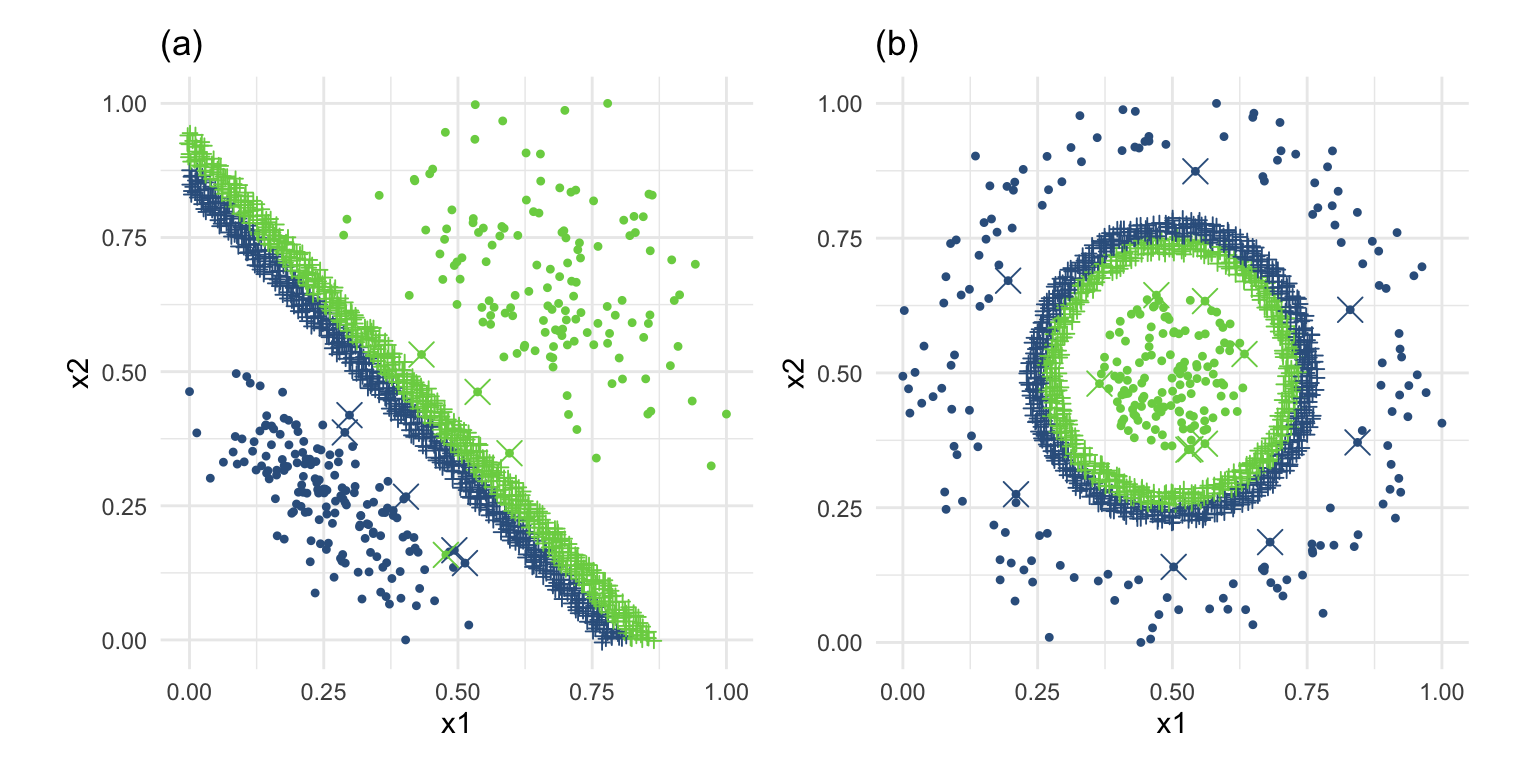
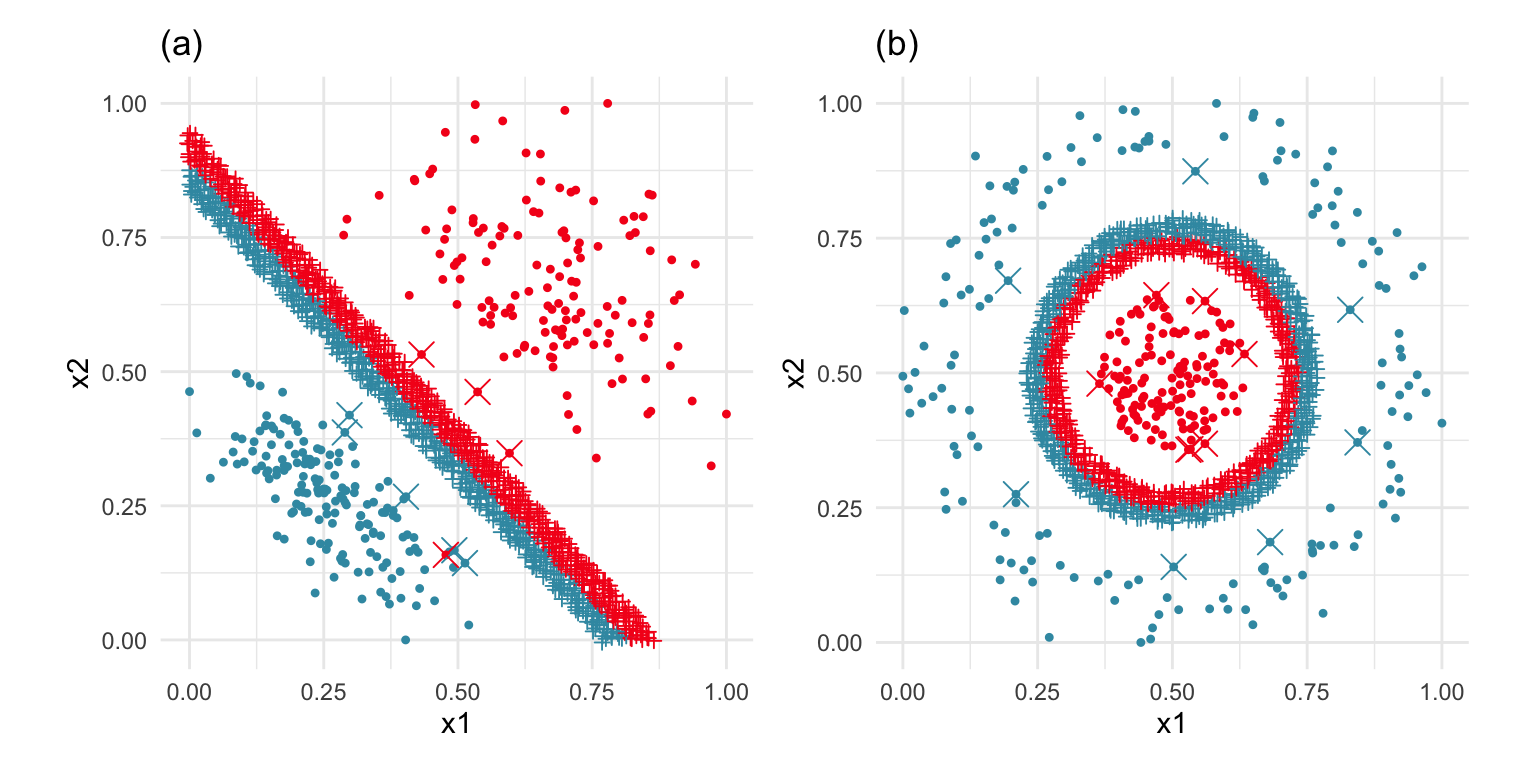
svm tidied

diff --git a/docs/svm.html b/docs/svm.html
@@ -410,46 +410,47 @@ div.csl-indent {
 <div class="cell">
 <div class="sourceCode cell-code" id="cb2"><pre class="sourceCode r code-with-copy"><code class="sourceCode r"><span id="cb2-1"><a href="#cb2-1" aria-hidden="true" tabindex="-1"></a><span class="fu">library</span>(classifly)</span>
 <span id="cb2-2"><a href="#cb2-2" aria-hidden="true" tabindex="-1"></a><span class="fu">library</span>(e1071)</span>
-<span id="cb2-3"><a href="#cb2-3" aria-hidden="true" tabindex="-1"></a>df1_svm <span class="ot">&lt;-</span> <span class="fu">svm</span>(cl<span class="sc">~</span>., <span class="at">data=</span>df1, </span>
-<span id="cb2-4"><a href="#cb2-4" aria-hidden="true" tabindex="-1"></a>                     <span class="at">probability=</span><span class="cn">TRUE</span>, </span>
-<span id="cb2-5"><a href="#cb2-5" aria-hidden="true" tabindex="-1"></a>                     <span class="at">kernel=</span><span class="st">"linear"</span>)</span>
-<span id="cb2-6"><a href="#cb2-6" aria-hidden="true" tabindex="-1"></a><span class="co">#df1_svm &lt;- ksvm(cl~., data=df1, </span></span>
-<span id="cb2-7"><a href="#cb2-7" aria-hidden="true" tabindex="-1"></a><span class="co">#                     probability=TRUE,</span></span>
-<span id="cb2-8"><a href="#cb2-8" aria-hidden="true" tabindex="-1"></a><span class="co">#                     kernel="vanilladot")</span></span>
-<span id="cb2-9"><a href="#cb2-9" aria-hidden="true" tabindex="-1"></a>df1_svm_e <span class="ot">&lt;-</span> <span class="fu">explore</span>(df1_svm, df1)</span>
-<span id="cb2-10"><a href="#cb2-10" aria-hidden="true" tabindex="-1"></a></span>
-<span id="cb2-11"><a href="#cb2-11" aria-hidden="true" tabindex="-1"></a>s1 <span class="ot">&lt;-</span> <span class="fu">ggplot</span>() <span class="sc">+</span> </span>
-<span id="cb2-12"><a href="#cb2-12" aria-hidden="true" tabindex="-1"></a>  <span class="fu">geom_point</span>(<span class="at">data=</span>df1, <span class="fu">aes</span>(<span class="at">x=</span>x1, <span class="at">y=</span>x2, <span class="at">colour=</span>cl),</span>
-<span id="cb2-13"><a href="#cb2-13" aria-hidden="true" tabindex="-1"></a>             <span class="at">shape=</span><span class="dv">20</span>) <span class="sc">+</span></span>
-<span id="cb2-14"><a href="#cb2-14" aria-hidden="true" tabindex="-1"></a>  <span class="fu">scale_colour_viridis_d</span>(<span class="st">""</span>, <span class="at">begin=</span><span class="fl">0.3</span>, <span class="at">end=</span><span class="fl">0.8</span>) <span class="sc">+</span></span>
-<span id="cb2-15"><a href="#cb2-15" aria-hidden="true" tabindex="-1"></a>  <span class="fu">geom_point</span>(<span class="at">data=</span>df1_svm_e[(<span class="sc">!</span>df1_svm_e<span class="sc">$</span>.BOUNDARY)<span class="sc">&amp;</span>(df1_svm_e<span class="sc">$</span>.TYPE<span class="sc">==</span><span class="st">"simulated"</span>),], </span>
-<span id="cb2-16"><a href="#cb2-16" aria-hidden="true" tabindex="-1"></a>             <span class="fu">aes</span>(<span class="at">x=</span>x1, <span class="at">y=</span>x2, <span class="at">colour=</span>cl), <span class="at">shape=</span><span class="dv">3</span>) <span class="sc">+</span></span>
-<span id="cb2-17"><a href="#cb2-17" aria-hidden="true" tabindex="-1"></a>  <span class="fu">geom_point</span>(<span class="at">data=</span>df1[df1_svm<span class="sc">$</span>index,], </span>
-<span id="cb2-18"><a href="#cb2-18" aria-hidden="true" tabindex="-1"></a>             <span class="fu">aes</span>(<span class="at">x=</span>x1, <span class="at">y=</span>x2, <span class="at">colour=</span>cl), </span>
-<span id="cb2-19"><a href="#cb2-19" aria-hidden="true" tabindex="-1"></a>             <span class="at">shape=</span><span class="dv">4</span>, <span class="at">size=</span><span class="dv">4</span>) <span class="sc">+</span></span>
-<span id="cb2-20"><a href="#cb2-20" aria-hidden="true" tabindex="-1"></a>  <span class="fu">theme_minimal</span>() <span class="sc">+</span></span>
-<span id="cb2-21"><a href="#cb2-21" aria-hidden="true" tabindex="-1"></a>  <span class="fu">theme</span>(<span class="at">aspect.ratio=</span><span class="dv">1</span>, <span class="at">legend.position =</span> <span class="st">"none"</span>) <span class="sc">+</span></span>
-<span id="cb2-22"><a href="#cb2-22" aria-hidden="true" tabindex="-1"></a>  <span class="fu">ggtitle</span>(<span class="st">"(a)"</span>)</span>
-<span id="cb2-23"><a href="#cb2-23" aria-hidden="true" tabindex="-1"></a></span>
-<span id="cb2-24"><a href="#cb2-24" aria-hidden="true" tabindex="-1"></a>df2_svm <span class="ot">&lt;-</span> <span class="fu">svm</span>(cl<span class="sc">~</span>., <span class="at">data=</span>df2,  </span>
-<span id="cb2-25"><a href="#cb2-25" aria-hidden="true" tabindex="-1"></a>                     <span class="at">probability=</span><span class="cn">TRUE</span>, </span>
-<span id="cb2-26"><a href="#cb2-26" aria-hidden="true" tabindex="-1"></a>                     <span class="at">kernel=</span><span class="st">"radial"</span>)</span>
-<span id="cb2-27"><a href="#cb2-27" aria-hidden="true" tabindex="-1"></a>df2_svm_e <span class="ot">&lt;-</span> <span class="fu">explore</span>(df2_svm, df2)</span>
-<span id="cb2-28"><a href="#cb2-28" aria-hidden="true" tabindex="-1"></a>s2 <span class="ot">&lt;-</span> <span class="fu">ggplot</span>() <span class="sc">+</span> </span>
-<span id="cb2-29"><a href="#cb2-29" aria-hidden="true" tabindex="-1"></a>  <span class="fu">geom_point</span>(<span class="at">data=</span>df2, <span class="fu">aes</span>(<span class="at">x=</span>x1, <span class="at">y=</span>x2, <span class="at">colour=</span>cl), <span class="at">shape=</span><span class="dv">20</span>) <span class="sc">+</span></span>
-<span id="cb2-30"><a href="#cb2-30" aria-hidden="true" tabindex="-1"></a>  <span class="fu">scale_colour_viridis_d</span>(<span class="st">""</span>, <span class="at">begin=</span><span class="fl">0.3</span>, <span class="at">end=</span><span class="fl">0.8</span>) <span class="sc">+</span></span>
-<span id="cb2-31"><a href="#cb2-31" aria-hidden="true" tabindex="-1"></a>  <span class="fu">geom_point</span>(<span class="at">data=</span>df2_svm_e[(<span class="sc">!</span>df2_svm_e<span class="sc">$</span>.BOUNDARY)<span class="sc">&amp;</span>(df2_svm_e<span class="sc">$</span>.TYPE<span class="sc">==</span><span class="st">"simulated"</span>),], </span>
-<span id="cb2-32"><a href="#cb2-32" aria-hidden="true" tabindex="-1"></a>             <span class="fu">aes</span>(<span class="at">x=</span>x1, <span class="at">y=</span>x2, <span class="at">colour=</span>cl), </span>
-<span id="cb2-33"><a href="#cb2-33" aria-hidden="true" tabindex="-1"></a>             <span class="at">shape=</span><span class="dv">3</span>) <span class="sc">+</span></span>
-<span id="cb2-34"><a href="#cb2-34" aria-hidden="true" tabindex="-1"></a>  <span class="fu">geom_point</span>(<span class="at">data=</span>df2[df2_svm<span class="sc">$</span>index,], </span>
-<span id="cb2-35"><a href="#cb2-35" aria-hidden="true" tabindex="-1"></a>             <span class="fu">aes</span>(<span class="at">x=</span>x1, <span class="at">y=</span>x2, <span class="at">colour=</span>cl), </span>
-<span id="cb2-36"><a href="#cb2-36" aria-hidden="true" tabindex="-1"></a>             <span class="at">shape=</span><span class="dv">4</span>, <span class="at">size=</span><span class="dv">4</span>) <span class="sc">+</span></span>
-<span id="cb2-37"><a href="#cb2-37" aria-hidden="true" tabindex="-1"></a>  <span class="fu">theme_minimal</span>() <span class="sc">+</span></span>
-<span id="cb2-38"><a href="#cb2-38" aria-hidden="true" tabindex="-1"></a>  <span class="fu">theme</span>(<span class="at">aspect.ratio=</span><span class="dv">1</span>, <span class="at">legend.position =</span> <span class="st">"none"</span>) <span class="sc">+</span></span>
-<span id="cb2-39"><a href="#cb2-39" aria-hidden="true" tabindex="-1"></a>  <span class="fu">ggtitle</span>(<span class="st">"(b)"</span>)</span>
-<span id="cb2-40"><a href="#cb2-40" aria-hidden="true" tabindex="-1"></a></span>
-<span id="cb2-41"><a href="#cb2-41" aria-hidden="true" tabindex="-1"></a><span class="fu">library</span>(patchwork)</span>
-<span id="cb2-42"><a href="#cb2-42" aria-hidden="true" tabindex="-1"></a>s1<span class="sc">+</span>s2</span></code><button title="Copy to Clipboard" class="code-copy-button"><i class="bi"></i></button></pre></div>
+<span id="cb2-3"><a href="#cb2-3" aria-hidden="true" tabindex="-1"></a><span class="fu">library</span>(colorspace)</span>
+<span id="cb2-4"><a href="#cb2-4" aria-hidden="true" tabindex="-1"></a>df1_svm <span class="ot">&lt;-</span> <span class="fu">svm</span>(cl<span class="sc">~</span>., <span class="at">data=</span>df1, </span>
+<span id="cb2-5"><a href="#cb2-5" aria-hidden="true" tabindex="-1"></a>                     <span class="at">probability=</span><span class="cn">TRUE</span>, </span>
+<span id="cb2-6"><a href="#cb2-6" aria-hidden="true" tabindex="-1"></a>                     <span class="at">kernel=</span><span class="st">"linear"</span>)</span>
+<span id="cb2-7"><a href="#cb2-7" aria-hidden="true" tabindex="-1"></a><span class="co">#df1_svm &lt;- ksvm(cl~., data=df1, </span></span>
+<span id="cb2-8"><a href="#cb2-8" aria-hidden="true" tabindex="-1"></a><span class="co">#                     probability=TRUE,</span></span>
+<span id="cb2-9"><a href="#cb2-9" aria-hidden="true" tabindex="-1"></a><span class="co">#                     kernel="vanilladot")</span></span>
+<span id="cb2-10"><a href="#cb2-10" aria-hidden="true" tabindex="-1"></a>df1_svm_e <span class="ot">&lt;-</span> <span class="fu">explore</span>(df1_svm, df1)</span>
+<span id="cb2-11"><a href="#cb2-11" aria-hidden="true" tabindex="-1"></a></span>
+<span id="cb2-12"><a href="#cb2-12" aria-hidden="true" tabindex="-1"></a>s1 <span class="ot">&lt;-</span> <span class="fu">ggplot</span>() <span class="sc">+</span> </span>
+<span id="cb2-13"><a href="#cb2-13" aria-hidden="true" tabindex="-1"></a>  <span class="fu">geom_point</span>(<span class="at">data=</span>df1, <span class="fu">aes</span>(<span class="at">x=</span>x1, <span class="at">y=</span>x2, <span class="at">colour=</span>cl),</span>
+<span id="cb2-14"><a href="#cb2-14" aria-hidden="true" tabindex="-1"></a>             <span class="at">shape=</span><span class="dv">20</span>) <span class="sc">+</span></span>
+<span id="cb2-15"><a href="#cb2-15" aria-hidden="true" tabindex="-1"></a>  <span class="fu">scale_colour_discrete_divergingx</span>(<span class="at">palette=</span><span class="st">"Zissou 1"</span>) <span class="sc">+</span></span>
+<span id="cb2-16"><a href="#cb2-16" aria-hidden="true" tabindex="-1"></a>  <span class="fu">geom_point</span>(<span class="at">data=</span>df1_svm_e[(<span class="sc">!</span>df1_svm_e<span class="sc">$</span>.BOUNDARY)<span class="sc">&amp;</span>(df1_svm_e<span class="sc">$</span>.TYPE<span class="sc">==</span><span class="st">"simulated"</span>),], </span>
+<span id="cb2-17"><a href="#cb2-17" aria-hidden="true" tabindex="-1"></a>             <span class="fu">aes</span>(<span class="at">x=</span>x1, <span class="at">y=</span>x2, <span class="at">colour=</span>cl), <span class="at">shape=</span><span class="dv">3</span>) <span class="sc">+</span></span>
+<span id="cb2-18"><a href="#cb2-18" aria-hidden="true" tabindex="-1"></a>  <span class="fu">geom_point</span>(<span class="at">data=</span>df1[df1_svm<span class="sc">$</span>index,], </span>
+<span id="cb2-19"><a href="#cb2-19" aria-hidden="true" tabindex="-1"></a>             <span class="fu">aes</span>(<span class="at">x=</span>x1, <span class="at">y=</span>x2, <span class="at">colour=</span>cl), </span>
+<span id="cb2-20"><a href="#cb2-20" aria-hidden="true" tabindex="-1"></a>             <span class="at">shape=</span><span class="dv">4</span>, <span class="at">size=</span><span class="dv">4</span>) <span class="sc">+</span></span>
+<span id="cb2-21"><a href="#cb2-21" aria-hidden="true" tabindex="-1"></a>  <span class="fu">theme_minimal</span>() <span class="sc">+</span></span>
+<span id="cb2-22"><a href="#cb2-22" aria-hidden="true" tabindex="-1"></a>  <span class="fu">theme</span>(<span class="at">aspect.ratio=</span><span class="dv">1</span>, <span class="at">legend.position =</span> <span class="st">"none"</span>) <span class="sc">+</span></span>
+<span id="cb2-23"><a href="#cb2-23" aria-hidden="true" tabindex="-1"></a>  <span class="fu">ggtitle</span>(<span class="st">"(a)"</span>)</span>
+<span id="cb2-24"><a href="#cb2-24" aria-hidden="true" tabindex="-1"></a></span>
+<span id="cb2-25"><a href="#cb2-25" aria-hidden="true" tabindex="-1"></a>df2_svm <span class="ot">&lt;-</span> <span class="fu">svm</span>(cl<span class="sc">~</span>., <span class="at">data=</span>df2,  </span>
+<span id="cb2-26"><a href="#cb2-26" aria-hidden="true" tabindex="-1"></a>                     <span class="at">probability=</span><span class="cn">TRUE</span>, </span>
+<span id="cb2-27"><a href="#cb2-27" aria-hidden="true" tabindex="-1"></a>                     <span class="at">kernel=</span><span class="st">"radial"</span>)</span>
+<span id="cb2-28"><a href="#cb2-28" aria-hidden="true" tabindex="-1"></a>df2_svm_e <span class="ot">&lt;-</span> <span class="fu">explore</span>(df2_svm, df2)</span>
+<span id="cb2-29"><a href="#cb2-29" aria-hidden="true" tabindex="-1"></a>s2 <span class="ot">&lt;-</span> <span class="fu">ggplot</span>() <span class="sc">+</span> </span>
+<span id="cb2-30"><a href="#cb2-30" aria-hidden="true" tabindex="-1"></a>  <span class="fu">geom_point</span>(<span class="at">data=</span>df2, <span class="fu">aes</span>(<span class="at">x=</span>x1, <span class="at">y=</span>x2, <span class="at">colour=</span>cl), <span class="at">shape=</span><span class="dv">20</span>) <span class="sc">+</span></span>
+<span id="cb2-31"><a href="#cb2-31" aria-hidden="true" tabindex="-1"></a>  <span class="fu">scale_colour_discrete_divergingx</span>(<span class="at">palette=</span><span class="st">"Zissou 1"</span>) <span class="sc">+</span></span>
+<span id="cb2-32"><a href="#cb2-32" aria-hidden="true" tabindex="-1"></a>  <span class="fu">geom_point</span>(<span class="at">data=</span>df2_svm_e[(<span class="sc">!</span>df2_svm_e<span class="sc">$</span>.BOUNDARY)<span class="sc">&amp;</span>(df2_svm_e<span class="sc">$</span>.TYPE<span class="sc">==</span><span class="st">"simulated"</span>),], </span>
+<span id="cb2-33"><a href="#cb2-33" aria-hidden="true" tabindex="-1"></a>             <span class="fu">aes</span>(<span class="at">x=</span>x1, <span class="at">y=</span>x2, <span class="at">colour=</span>cl), </span>
+<span id="cb2-34"><a href="#cb2-34" aria-hidden="true" tabindex="-1"></a>             <span class="at">shape=</span><span class="dv">3</span>) <span class="sc">+</span></span>
+<span id="cb2-35"><a href="#cb2-35" aria-hidden="true" tabindex="-1"></a>  <span class="fu">geom_point</span>(<span class="at">data=</span>df2[df2_svm<span class="sc">$</span>index,], </span>
+<span id="cb2-36"><a href="#cb2-36" aria-hidden="true" tabindex="-1"></a>             <span class="fu">aes</span>(<span class="at">x=</span>x1, <span class="at">y=</span>x2, <span class="at">colour=</span>cl), </span>
+<span id="cb2-37"><a href="#cb2-37" aria-hidden="true" tabindex="-1"></a>             <span class="at">shape=</span><span class="dv">4</span>, <span class="at">size=</span><span class="dv">4</span>) <span class="sc">+</span></span>
+<span id="cb2-38"><a href="#cb2-38" aria-hidden="true" tabindex="-1"></a>  <span class="fu">theme_minimal</span>() <span class="sc">+</span></span>
+<span id="cb2-39"><a href="#cb2-39" aria-hidden="true" tabindex="-1"></a>  <span class="fu">theme</span>(<span class="at">aspect.ratio=</span><span class="dv">1</span>, <span class="at">legend.position =</span> <span class="st">"none"</span>) <span class="sc">+</span></span>
+<span id="cb2-40"><a href="#cb2-40" aria-hidden="true" tabindex="-1"></a>  <span class="fu">ggtitle</span>(<span class="st">"(b)"</span>)</span>
+<span id="cb2-41"><a href="#cb2-41" aria-hidden="true" tabindex="-1"></a></span>
+<span id="cb2-42"><a href="#cb2-42" aria-hidden="true" tabindex="-1"></a><span class="fu">library</span>(patchwork)</span>
+<span id="cb2-43"><a href="#cb2-43" aria-hidden="true" tabindex="-1"></a>s1<span class="sc">+</span>s2</span></code><button title="Copy to Clipboard" class="code-copy-button"><i class="bi"></i></button></pre></div>
 <div class="cell-output-display">
 <div id="fig-svm-toy" class="quarto-figure quarto-figure-center anchored">
 <figure class="figure">
@@ -565,24 +566,31 @@ ggplot() +
 <span id="cb4-8"><a href="#cb4-8" aria-hidden="true" tabindex="-1"></a><span class="co"># Only show the SVs with |coefs| &lt; 1</span></span>
 <span id="cb4-9"><a href="#cb4-9" aria-hidden="true" tabindex="-1"></a>c_pch <span class="ot">&lt;-</span> <span class="fu">rep</span>(<span class="dv">20</span>, <span class="fu">nrow</span>(chinstrap))</span>
 <span id="cb4-10"><a href="#cb4-10" aria-hidden="true" tabindex="-1"></a>c_pch[chinstrap_svm<span class="sc">$</span>index[<span class="fu">abs</span>(chinstrap_svm<span class="sc">$</span>coefs)<span class="sc">&lt;</span><span class="dv">1</span>]] <span class="ot">&lt;-</span> <span class="dv">4</span></span>
-<span id="cb4-11"><a href="#cb4-11" aria-hidden="true" tabindex="-1"></a><span class="fu">animate_xy</span>(chinstrap[,<span class="dv">1</span><span class="sc">:</span><span class="dv">4</span>], <span class="at">col=</span>chinstrap<span class="sc">$</span>sex, <span class="at">pch=</span>c_pch)</span>
-<span id="cb4-12"><a href="#cb4-12" aria-hidden="true" tabindex="-1"></a><span class="fu">render_gif</span>(chinstrap[,<span class="dv">1</span><span class="sc">:</span><span class="dv">4</span>],</span>
-<span id="cb4-13"><a href="#cb4-13" aria-hidden="true" tabindex="-1"></a>           <span class="fu">grand_tour</span>(),</span>
-<span id="cb4-14"><a href="#cb4-14" aria-hidden="true" tabindex="-1"></a>           <span class="fu">display_xy</span>(<span class="at">col=</span>chinstrap<span class="sc">$</span>sex, <span class="at">pch=</span>c_pch),</span>
-<span id="cb4-15"><a href="#cb4-15" aria-hidden="true" tabindex="-1"></a>           <span class="at">gif_file=</span><span class="st">"gifs/chinstrap_svs.gif"</span>,</span>
-<span id="cb4-16"><a href="#cb4-16" aria-hidden="true" tabindex="-1"></a>           <span class="at">frames=</span><span class="dv">500</span>)</span>
-<span id="cb4-17"><a href="#cb4-17" aria-hidden="true" tabindex="-1"></a></span>
-<span id="cb4-18"><a href="#cb4-18" aria-hidden="true" tabindex="-1"></a><span class="co"># Tour the separating hyper-plane also</span></span>
-<span id="cb4-19"><a href="#cb4-19" aria-hidden="true" tabindex="-1"></a>symbols <span class="ot">&lt;-</span> <span class="fu">c</span>(<span class="dv">3</span>, <span class="dv">20</span>)</span>
-<span id="cb4-20"><a href="#cb4-20" aria-hidden="true" tabindex="-1"></a>c_pch <span class="ot">&lt;-</span> symbols[<span class="fu">as.numeric</span>(chinstrap_svm_e<span class="sc">$</span>.TYPE[<span class="sc">!</span>chinstrap_svm_e<span class="sc">$</span>.BOUNDARY])]</span>
-<span id="cb4-21"><a href="#cb4-21" aria-hidden="true" tabindex="-1"></a><span class="fu">animate_xy</span>(chinstrap_svm_e[<span class="sc">!</span>chinstrap_svm_e<span class="sc">$</span>.BOUNDARY,<span class="dv">1</span><span class="sc">:</span><span class="dv">4</span>], </span>
-<span id="cb4-22"><a href="#cb4-22" aria-hidden="true" tabindex="-1"></a>           <span class="at">col=</span>chinstrap_svm_e<span class="sc">$</span>sex[<span class="sc">!</span>chinstrap_svm_e<span class="sc">$</span>.BOUNDARY],</span>
-<span id="cb4-23"><a href="#cb4-23" aria-hidden="true" tabindex="-1"></a>           <span class="at">pch=</span>c_pch)</span>
-<span id="cb4-24"><a href="#cb4-24" aria-hidden="true" tabindex="-1"></a><span class="fu">render_gif</span>(chinstrap_svm_e[<span class="sc">!</span>chinstrap_svm_e<span class="sc">$</span>.BOUNDARY,<span class="dv">1</span><span class="sc">:</span><span class="dv">4</span>],</span>
-<span id="cb4-25"><a href="#cb4-25" aria-hidden="true" tabindex="-1"></a>           <span class="fu">grand_tour</span>(),</span>
-<span id="cb4-26"><a href="#cb4-26" aria-hidden="true" tabindex="-1"></a>           <span class="fu">display_xy</span>(<span class="at">col=</span>chinstrap_svm_e<span class="sc">$</span>sex[<span class="sc">!</span>chinstrap_svm_e<span class="sc">$</span>.BOUNDARY], <span class="at">pch=</span>c_pch),</span>
-<span id="cb4-27"><a href="#cb4-27" aria-hidden="true" tabindex="-1"></a>           <span class="at">gif_file=</span><span class="st">"gifs/chinstrap_svm.gif"</span>,</span>
-<span id="cb4-28"><a href="#cb4-28" aria-hidden="true" tabindex="-1"></a>           <span class="at">frames=</span><span class="dv">500</span>)</span></code><button title="Copy to Clipboard" class="code-copy-button"><i class="bi"></i></button></pre></div>
+<span id="cb4-11"><a href="#cb4-11" aria-hidden="true" tabindex="-1"></a>c_cex <span class="ot">&lt;-</span> <span class="fu">rep</span>(<span class="dv">1</span>, <span class="fu">nrow</span>(chinstrap))</span>
+<span id="cb4-12"><a href="#cb4-12" aria-hidden="true" tabindex="-1"></a>c_cex[chinstrap_svm<span class="sc">$</span>index[<span class="fu">abs</span>(chinstrap_svm<span class="sc">$</span>coefs)<span class="sc">&lt;</span><span class="dv">1</span>]] <span class="ot">&lt;-</span> <span class="dv">2</span></span>
+<span id="cb4-13"><a href="#cb4-13" aria-hidden="true" tabindex="-1"></a><span class="fu">animate_xy</span>(chinstrap[,<span class="dv">1</span><span class="sc">:</span><span class="dv">4</span>], <span class="at">col=</span>chinstrap<span class="sc">$</span>sex, </span>
+<span id="cb4-14"><a href="#cb4-14" aria-hidden="true" tabindex="-1"></a>           <span class="at">pch=</span>c_pch, <span class="at">cex=</span>c_cex)</span>
+<span id="cb4-15"><a href="#cb4-15" aria-hidden="true" tabindex="-1"></a><span class="fu">render_gif</span>(chinstrap[,<span class="dv">1</span><span class="sc">:</span><span class="dv">4</span>],</span>
+<span id="cb4-16"><a href="#cb4-16" aria-hidden="true" tabindex="-1"></a>           <span class="fu">grand_tour</span>(),</span>
+<span id="cb4-17"><a href="#cb4-17" aria-hidden="true" tabindex="-1"></a>           <span class="fu">display_xy</span>(<span class="at">col=</span>chinstrap<span class="sc">$</span>sex, <span class="at">pch=</span>c_pch, <span class="at">cex=</span>c_cex),</span>
+<span id="cb4-18"><a href="#cb4-18" aria-hidden="true" tabindex="-1"></a>           <span class="at">gif_file=</span><span class="st">"gifs/chinstrap_svs.gif"</span>,</span>
+<span id="cb4-19"><a href="#cb4-19" aria-hidden="true" tabindex="-1"></a>           <span class="at">width=</span><span class="dv">400</span>,</span>
+<span id="cb4-20"><a href="#cb4-20" aria-hidden="true" tabindex="-1"></a>           <span class="at">height=</span><span class="dv">400</span>,</span>
+<span id="cb4-21"><a href="#cb4-21" aria-hidden="true" tabindex="-1"></a>           <span class="at">frames=</span><span class="dv">500</span>)</span>
+<span id="cb4-22"><a href="#cb4-22" aria-hidden="true" tabindex="-1"></a></span>
+<span id="cb4-23"><a href="#cb4-23" aria-hidden="true" tabindex="-1"></a><span class="co"># Tour the separating hyper-plane also</span></span>
+<span id="cb4-24"><a href="#cb4-24" aria-hidden="true" tabindex="-1"></a>symbols <span class="ot">&lt;-</span> <span class="fu">c</span>(<span class="dv">3</span>, <span class="dv">20</span>)</span>
+<span id="cb4-25"><a href="#cb4-25" aria-hidden="true" tabindex="-1"></a>c_pch <span class="ot">&lt;-</span> symbols[<span class="fu">as.numeric</span>(chinstrap_svm_e<span class="sc">$</span>.TYPE[<span class="sc">!</span>chinstrap_svm_e<span class="sc">$</span>.BOUNDARY])]</span>
+<span id="cb4-26"><a href="#cb4-26" aria-hidden="true" tabindex="-1"></a><span class="fu">animate_xy</span>(chinstrap_svm_e[<span class="sc">!</span>chinstrap_svm_e<span class="sc">$</span>.BOUNDARY,<span class="dv">1</span><span class="sc">:</span><span class="dv">4</span>], </span>
+<span id="cb4-27"><a href="#cb4-27" aria-hidden="true" tabindex="-1"></a>           <span class="at">col=</span>chinstrap_svm_e<span class="sc">$</span>sex[<span class="sc">!</span>chinstrap_svm_e<span class="sc">$</span>.BOUNDARY],</span>
+<span id="cb4-28"><a href="#cb4-28" aria-hidden="true" tabindex="-1"></a>           <span class="at">pch=</span>c_pch)</span>
+<span id="cb4-29"><a href="#cb4-29" aria-hidden="true" tabindex="-1"></a><span class="fu">render_gif</span>(chinstrap_svm_e[<span class="sc">!</span>chinstrap_svm_e<span class="sc">$</span>.BOUNDARY,<span class="dv">1</span><span class="sc">:</span><span class="dv">4</span>],</span>
+<span id="cb4-30"><a href="#cb4-30" aria-hidden="true" tabindex="-1"></a>           <span class="fu">grand_tour</span>(),</span>
+<span id="cb4-31"><a href="#cb4-31" aria-hidden="true" tabindex="-1"></a>           <span class="fu">display_xy</span>(<span class="at">col=</span>chinstrap_svm_e<span class="sc">$</span>sex[<span class="sc">!</span>chinstrap_svm_e<span class="sc">$</span>.BOUNDARY], <span class="at">pch=</span>c_pch),</span>
+<span id="cb4-32"><a href="#cb4-32" aria-hidden="true" tabindex="-1"></a>           <span class="at">gif_file=</span><span class="st">"gifs/chinstrap_svm.gif"</span>,</span>
+<span id="cb4-33"><a href="#cb4-33" aria-hidden="true" tabindex="-1"></a>           <span class="at">width=</span><span class="dv">400</span>,</span>
+<span id="cb4-34"><a href="#cb4-34" aria-hidden="true" tabindex="-1"></a>           <span class="at">height=</span><span class="dv">400</span>,</span>
+<span id="cb4-35"><a href="#cb4-35" aria-hidden="true" tabindex="-1"></a>           <span class="at">frames=</span><span class="dv">500</span>)</span></code><button title="Copy to Clipboard" class="code-copy-button"><i class="bi"></i></button></pre></div>
 </details>
 </div>
 <div id="fig-p-svm" class="quarto-layout-panel">
